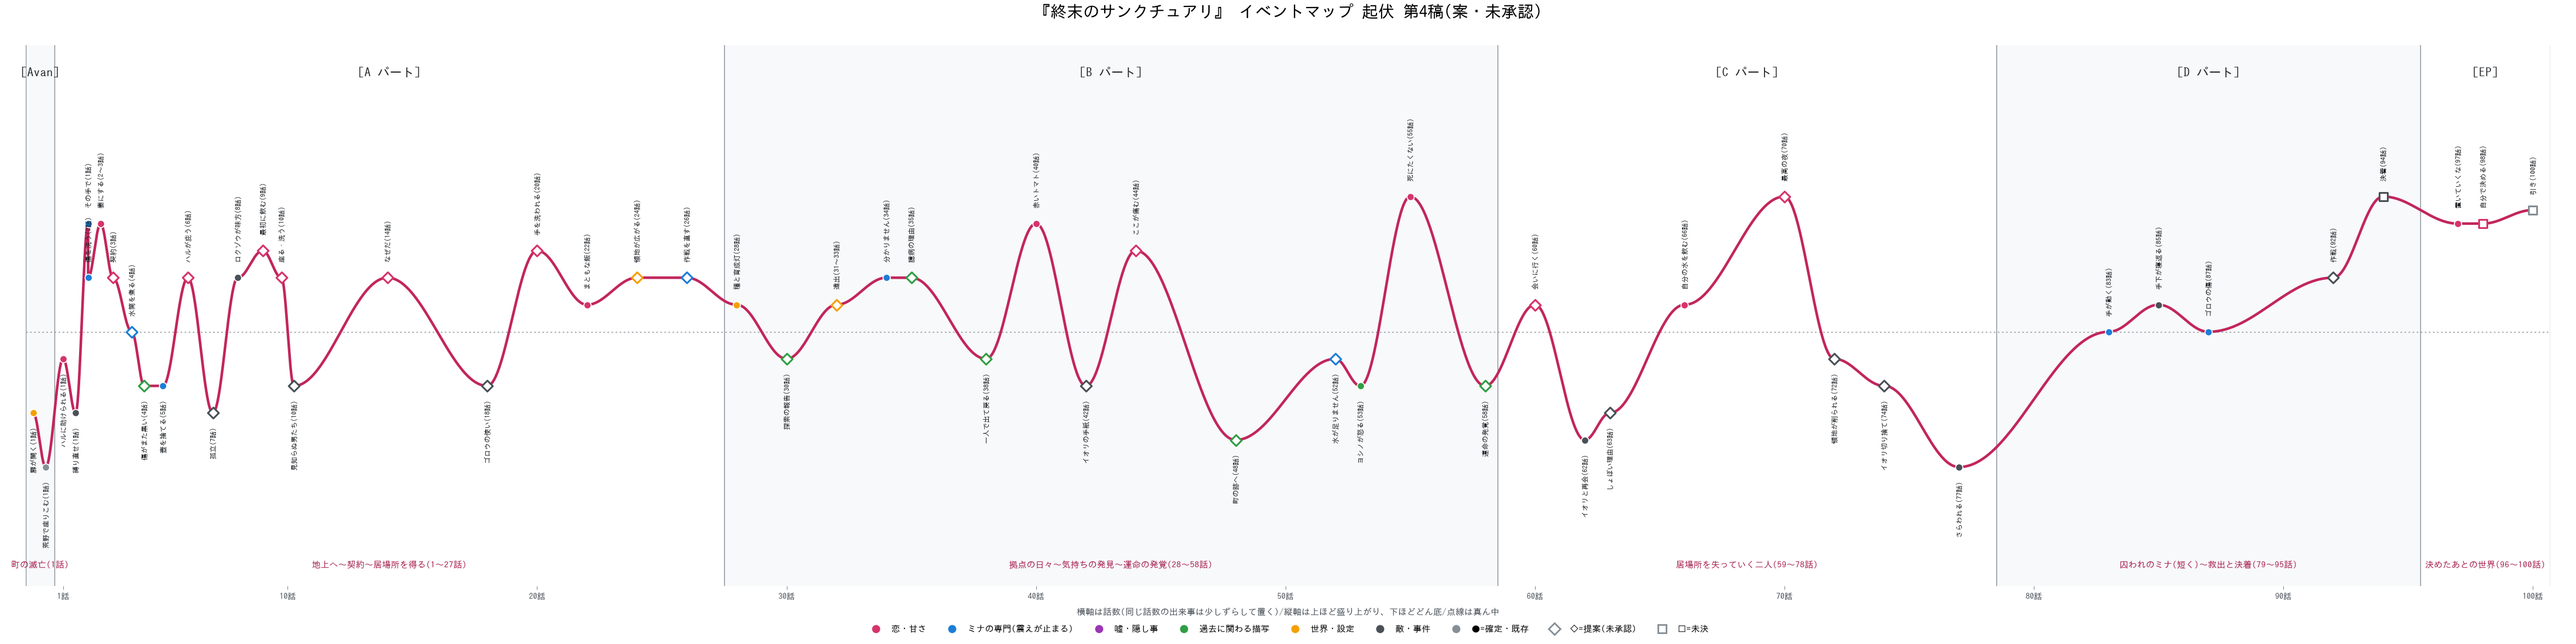
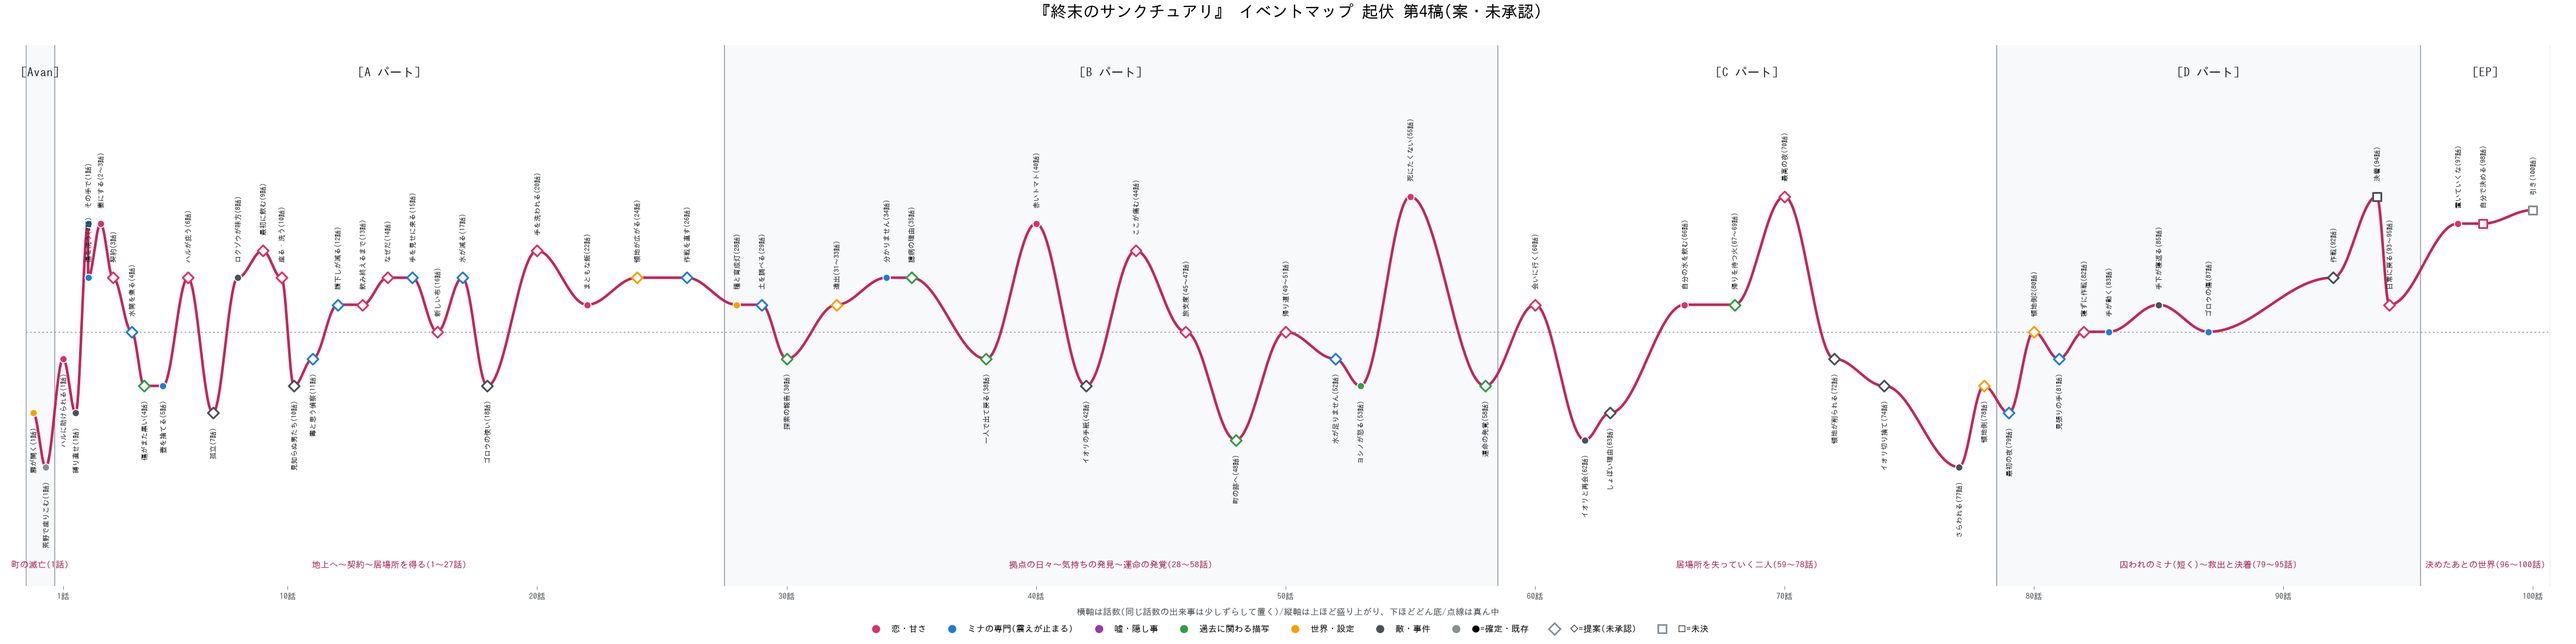
Add daily territory episodes to fill open slots; event map and graph updated
Claude-Session: https://claude.ai/code/session_018dkUDXa3XjFeNeXGfXNeGK

diff --git a/novels/shumatsu-no-sanctuary/案/案_日常回.md b/novels/shumatsu-no-sanctuary/案/案_日常回.md
@@ -1,0 +1,90 @@
+# 空き話数の案(日常の領地回)
+
+出来事だけ(台詞は書かない)。足した設定は0。使うのは、すでにある要素(水、傷、桶、鍋、火、種、トマト、手下、ロクゾウ、ヨシノ、集落、柵、小瓶)だけ。状態は★=私の提案(未承認)。
+
+## 『領地防衛』の分析から使う型
+
+1. 一話で一つ、目に見える成果が出る(水がきれいになる、手下の体調が良くなる)
+2. 人が集まる理由は、ミナの専門とやさしさ。能力を見せびらかさない
+3. 試練は外から来て、みんなで勝つ。ミナ一人で取らない
+
+## 空き話数の案
+
+| 話数 | 出来事 | 型 | 起伏 |
+| --- | --- | --- | --- |
+| 11話 | 10話の引き(柵の外の男たち)の正体が分かる。**下の3案から選ぶ** | 試練 | 4 |
+| 12話 | 水を飲むようになってから、手下の腹下しが減る。ロクゾウが確かめ、数が合う | 成果 | 6 |
+| 13話 | ヨシノが、ミナが自分の分の水を飲み終えるまで離れない。ミナは飲み終えて、少し笑う。ハルが遠くから見ている | 人柄・恋 | 6 |
+| 15話 | 手洗いの理由を、ミナが手下に見せる(泥の水と、洗ったあとの水を並べる)。手下が一人ずつ、自分の手を見せに来る | 成果・専門 | 7 |
+| 16話 | 寝床の布が、いつのまにか新しくなっている。ヨシノが誰の仕業かを探し、ロクゾウだと分かる | 人柄 | 5 |
+| 17話 | ロクゾウが、水場の水が日に日に減っていることに気づく。ミナがハルと水場を見に行き、石の詰まりを直す。水が増える | 成果・専門 | 7 |
+| 29話 | 種を土に植える前に、ミナが土と水を調べる。ハルが「なぜだ」と聞きながら付き合う | 専門・恋 | 6 |
+| 45〜47話 | 町の跡へ行く前後。**下の2案から選ぶ** | — | — |
+| 49〜51話 | 町の跡から帰ったあと。**下の2案から選ぶ** | — | — |
+| 67話 | イオリに会った帰り道、ミナは何も話せない。ヨシノが黙って隣を歩く。戻ると、手下たちが火を起こして待っている | 人柄 | 5 |
+| 68話 | 領地に入った集落の人に、ミナが水の見方を教える。集落の人が、ミナの手元をじっと見る | 人柄・専門 | 6 |
+| 69話 | トマトの実が増え、手下たちがそれぞれ、自分の分を持ち帰る。ミナは、数えずに見ている | 成果 | 7 |
+| 78〜82話 | さらわれたあと。**下の3案から選ぶ** | — | — |
+| 84・86・88話 | 83話(汚れた水を見て手が動く)、85話(空の水筒)、87話(ゴロウの傷)の間をつなぐ。**78〜82話の選び方で決まる** | — | — |
+| 89〜91話 | 嘘の流れを外したので空き。**78〜82話の選び方で決まる** | — | — |
+| 93・95話 | 94話の足が動かない、の前後。救出のあとの日常に戻る | 人柄・恋 | 6 |
+
+## 11話:柵の外の男たちの正体
+
+読者が予想する展開(10個)と、今の案(18話のゴロウの使いの前振り)との照合:
+
+| # | 予想 | 照合 |
+| --- | --- | --- |
+| 1 | 盗賊の偵察で、すぐ襲撃が来る | 一部 |
+| 2 | ゴロウの手下で、水場を狙っている | 当たる(18話で出る) |
+| 3 | ハルに恨みのある昔の敵 | 外れている |
+| 4 | イオリの手の者が、ミナを連れ戻しに来た | 外れている |
+| 5 | ハルが一人で全員を倒す | 外れている |
+| 6 | ミナが人質になり、ハルが助ける | 外れている |
+| 7 | 実はハルの昔の仲間 | 外れている |
+| 8 | 怪我人の一団で、ミナが手当てして仲間になる | 外れている |
+| 9 | 水を求めて来た旅人で、ミナが水を分ける | 外れている |
+| 10 | 手下の中に裏切り者がいて、手引きした | 外れている |
+
+- 案A:影は、水場の水を見に来た二人組。ハルは手を出さない。翌朝、ミナに「分けるか」を決めさせる。ミナは震えながら分けると決め、二人は水を持ち帰る。(9に近い。ただし分ける決断をミナにさせる)
+- 案B:影は、「あそこの水は毒だ」と思い込んで見に来た偵察。ミナが震えながら、目の前でその水を飲んでみせる。偵察は、倒れないミナを見て帰る。噂が広がり、18話の使いにつながる。(1に近いが、戦わずに退ける。ミナの勇気の場面が一つ決まる)
+- 案C:影は、怪我人を運ぶ一団。ミナが傷を洗う。一団は礼を言わずに去るが、数日後、別の怪我人が自分で歩いてくる。(8に近いが、仲間にはならない)
+
+## 45〜47話・49〜51話(町の跡の前後)
+
+- 案A:旅支度を日常回にする。手下が黙って持ち物を揃え、ミナは行くかどうか迷い、前夜はヨシノと過ごす。帰りは、ハルが黙って隣を歩き、帰った夜に手下が食事で迎える。
+- 案B:間を置かず、48話に入る。45〜47話と49〜51話は、通常の領地の日常回(成果が見える話)にする。
+
+## 78〜82話(さらわれたあと)
+
+- 案A:ミナ側だけで通す。運ばれ、着いた先で最初の夜を震えて過ごす。置かれた水が濁っていることに気づき、目が離れない。83話の「手が動く」を前に出し、日数を詰める。
+- 案B:領地側とミナ側を交互にする。領地側は、ミナの作った仕組み(水、煮沸、手洗い)が、ミナがいなくても回り続ける。手下が、ミナのやり方を守る。ハルは寝ずに探す作戦を立てる。
+- 案C:領地側は一話分だけ入れ、ほかはミナ側。
+
+## ルール5のテスト
+
+どの出来事も「ミナがトマトを育て、ハルがミナを溺愛する過程で必要か」に通るものだけにした。足した設定は0。
+
+## 決まったこと(2026-10-11、ユーザーの選択)
+
+- 11話:案B(毒だと思い込んだ偵察。ミナが目の前で水を飲んでみせる。ミナの勇気の場面が一つ決まる)
+- 45〜51話:案A(旅支度と帰りを日常回にする)
+  - 45話:手下が黙って、持ち物を揃える
+  - 46話:ミナは行くかどうか迷い、ハルは決めるのを待つ
+  - 47話:前夜、ミナはヨシノと過ごす
+  - 49話:帰り道、ハルが黙って隣を歩く
+  - 50話:帰った夜、手下たちが食事で迎える
+  - 51話:ミナは町の跡のことを話さず、いつもの仕事をする。ロクゾウが黙って桶を運ぶ
+- 78〜91話:案B(領地側とミナ側を交互にする)
+  - 78話(領地):さらわれた翌朝、ハルが手下を集める。ミナの作った仕組み(水を煮る火、手洗い)は止まらず回っている
+  - 79話(ミナ):着いた先の最初の夜、震えて眠れない。置かれた水が濁っているのに気づく
+  - 80話(領地):手下が、ミナのやり方どおりに手を洗い、水を煮る。ロクゾウが確かめる
+  - 81話(ミナ):見張りの手が荒れているのに気づく
+  - 82話(領地):ハルが寝ずに作戦を立てる。ヨシノがハルに水を飲ませる
+  - 84話(ミナ):見張りの手を洗う
+  - 86話(領地):作戦の準備。手下たちが、ミナに教わった手当てを使う
+  - 88話(ミナ):ゴロウの手下がミナの側に集まる様子
+  - 89話(領地):殺さない作戦の準備
+  - 90話(ミナ):ゴロウの手下が、空の水筒を差し出し続ける
+  - 91話(領地):出発の前夜、ハルが水を一口飲んで休む
+- 嘘の流れ(89・90話)は外したまま。53話は「自分を責める」だけ

diff --git a/novels/shumatsu-no-sanctuary/案/案_イベントマップ.md b/novels/shumatsu-no-sanctuary/案/案_イベントマップ.md
@@ -5,8 +5,9 @@
 - 起伏: 0が一番どん底、10が一番盛り上がる(5が真ん中)。山場・カタルシス・甘さは高く、絶望・喪失は低くつける(状況の良し悪しではなく、盛り上がりで)。グラフは `案_イベントマップ_起伏.png`
 - 状態: ◎確定(CLAUDE.md)/○企画書・話数配分にあったもの/★私の提案(未承認)/？未決
 - タグ: 恋・専門(震えが止まる)・嘘・過去・世界・敵
-- 「空き」の話数は、日常回・つなぎ回。中身は未決(足していない)
+- 「空き」の話数は、日常回・つなぎ回。2026-10-11に、日常回の案を入れた(`案_日常回.md`、★)。残る空きは、まだ中身が未決
 - 手下が「姐さん」と呼ぶのは34話から(予想を外す#3を採用)
+- 2026-10-11: 空き話数の日常回を入れた(11〜17・29・45〜51・67〜69・78〜95話の一部。選択はユーザー)
 - 2026-10-11: 『領地防衛』の声の分析(企画書ドキュメントのタブ)で「嫌な思いをしない」が最多だったため、5話・7話の敵意を弱めた(嫌がらせを外し、遠巻きにするだけ)
 - 2026-10-09: 領地経営を軸にする方針(CLAUDE.md)を反映(第4稿)。さらわれる流れを短く軽くし(80・89・90話を削除)、31〜33話に「イオリの手がかりを追う遠出」を追加。襲撃は今ある5回(18・26・52・72・77話)のまま
 - 2026-10-02: 点検の結果と「予想を外す案」の採用を反映(【変】)。決定の一覧は `04_進捗メモ.md`
@@ -51,7 +52,19 @@
 
 ・夜、柵の外に見知らぬ男たちの影(10話の引き)(10話)【新】 [起伏3/敵/★]
 
+・柵の外の男たちは、「水は毒だ」と思い込んだ偵察。ミナが震えながら、目の前でその水を飲んでみせる。偵察は倒れないミナを見て帰る(11話)【新】 [起伏4/専門・敵/★]
+
+・水を飲むようになってから、手下の腹下しが減る。ロクゾウが確かめる(12話)【新】 [起伏6/専門/★]
+
+・ヨシノが、ミナが自分の分の水を飲み終えるまで離れない。ハルが遠くから見ている(13話)【新】 [起伏6/恋/★]
+
 ・何にでも「なぜだ」と聞くハル(コメディ)(14話) [起伏7/恋/★]
+
+・手洗いの理由を、ミナが手下に見せる。手下が一人ずつ、自分の手を見せに来る(15話)【新】 [起伏7/専門/★]
+
+・寝床の布が新しくなっている。ヨシノが探して、ロクゾウの仕業と分かる(16話)【新】 [起伏5/恋/★]
+
+・水場の水が減っているとロクゾウが気づく。ミナがハルと見に行き、石の詰まりを直して水が増える(17話)【新】 [起伏7/専門/★]
 
 ・ゴロウの使いが来る(ヒールの最初の仕掛け)(18話) [起伏3/敵/★]
 
@@ -63,8 +76,6 @@
 
 ・ハルの作戦を、ミナが直す(使いの一団を迎え撃つ)。迎え撃ちのあと、契約の条件の抜け道をハルが使っていたと分かる(26話) [起伏7/専門・敵/★]
 
-(空き: 11〜13話、15〜17話)
-
 ## Bパート(28〜58話) 拠点の日々〜気持ちの発見〜運命の発覚
 
 ・種と育成灯が、略奪団の戦利品の中から見つかる(28話)【変】 [起伏6/世界/○]
@@ -72,6 +83,8 @@
 ・イオリの探索の報告(30話)【新】 [起伏4/過去/★]
 
 ・イオリの手がかりを追って、近くの集落へ遠出。ハルと手下が同行し、水場を直すと、集落が領地に入る(31〜33話)【新】 [起伏6/世界/★]
+
+・種を土に植える前に、ミナが土と水を調べる。ハルが「なぜだ」と聞きながら付き合う(29話)【新】 [起伏6/専門・恋/★]
 
 ・燃料が尽き、ミナが分からないと言う。手下が火を起こし、「姐さん」と呼びはじめる(34話)【変】 [起伏7/専門/○]
 
@@ -87,6 +100,8 @@
 
 ・町の跡へ、見に行く(取りに行くものはなし。生存者はいない)(48話)【変】 [起伏1/過去・世界/★]
 
+・旅支度と前夜(45〜47話)、帰り道と帰った夜の食事(49〜51話)を日常回にする。48話の前後に温かい回を置く(45〜47・49〜51話)【新】 [起伏5/恋/★]
+
 ・他勢力の襲撃。誰も死なない。ハルが左肩を切られる(52話) [起伏4/専門/★]
 
 ・ミナが自分を責めて眠らず、ヨシノが怒る(53話)【変】 [起伏3/過去/○]
@@ -94,8 +109,6 @@
 ・恋の中間点:ハルが傷を見せに来る。初めて名前を呼ぶ(55話) [起伏10/恋/○]
 
 ・運命の発覚:町を襲ったのは、ハルから缶詰を奪った男ゴロウだった(58話) [起伏3/過去・敵/★]
-
-(空き: 29話、45〜47話、49〜51話)
 
 ## Cパート(59〜78話) 居場所を失っていく二人
 
@@ -109,13 +122,13 @@
 
 ・最高の夜:ハルが、ミナの手を洗う(20話の答え)。そのあと、二人で黙って座る(70話) [起伏10/恋/★]
 
+・イオリに会った帰り道、戻ると手下たちが火を起こして待っている(67話)/集落の人にミナが水の見方を教える(68話)/トマトの実が増え、手下が持ち帰る(69話)(67〜69話)【新】 [起伏6/人柄/★]
+
 ・ゴロウが、領地の集落を取り上げる(72話)【変】 [起伏4/敵/★]
 
 ・ゴロウがイオリを切り捨て、ミナを狙う(74話)【変】 [起伏3/敵/★]
 
 ・拠点が襲われ、ミナがさらわれる(77話) [起伏0/敵/○]
-
-(空き: 67〜69話)
 
 ## Dパート(79〜95話) 囚われのミナ(短く)〜救出と決着
 
@@ -127,7 +140,19 @@
 
 ・ハルが作戦を立てて乗りこむ。殺さない作戦(92話) [起伏7/敵/★]
 
-(空き: 78〜82話、84話、86話、88〜91話、93話、95話。さらわれた先の日々。中身は未決)
+・領地側:さらわれた翌朝、ハルが手下を集める。ミナの作った仕組みは止まらず回っている(78話)【新】 [起伏3/世界/★]
+
+・ミナ側:着いた先の最初の夜、震えて眠れない。置かれた水が濁っているのに気づく(79話)【新】 [起伏2/専門/★]
+
+・領地側:手下がミナのやり方どおりに手を洗い、水を煮る。ロクゾウが確かめる(80話)【新】 [起伏5/世界/★]
+
+・ミナ側:見張りの手が荒れているのに気づく(81話)【新】 [起伏4/専門/★]
+
+・領地側:ハルが寝ずに作戦を立てる。ヨシノがハルに水を飲ませる(82話)【新】 [起伏5/恋/★]
+
+(84話ミナ:見張りの手を洗う/86話領地:手当てを使う準備/88話ミナ:ゴロウの手下が側に集まる/89話領地:殺さない作戦の準備/90話ミナ:空の水筒を差し出され続ける/91話領地:出発の前夜、ハルが水を一口飲んで休む。詳細は `案_日常回.md`)
+
+・救出のあとの日常に戻る(93話・95話)【新】 [起伏6/恋/★]
 
 ・決着(ゴロウとイオリの最後は未決)。救出後、ミナの足が動かない(94話) [起伏10/敵/？]
 

diff --git a/novels/shumatsu-no-sanctuary/04_進捗メモ.md b/novels/shumatsu-no-sanctuary/04_進捗メモ.md
@@ -112,6 +112,13 @@
 - 決めてもらったこと: 5話・7話の敵意を弱める(手下は嫌がらせをせず、遠巻きにするだけ。5話は武器を握らない。7話の夜通し鍋は残し、軽い調子で書く)。あらすじ(5〜7話)とイベントマップに反映済み
 - 未確認: 8話のロクゾウの「姐さん」と、イベントマップ注記「手下が姐さんと呼ぶのは34話から」(ロクゾウだけが先に呼ぶ、という読みで両立するが、書く前に確認)
 
+## 日常回の案(2026-10-11、決定済み)
+
+- 企画書ドキュメントのタブ「空き話数の案(日常回)」と `案/案_日常回.md`。イベントマップ(第4稿)と起伏グラフに反映済み
+- 決めてもらったこと: 11話=毒だと思い込んだ偵察(ミナが目の前で水を飲んでみせる。勇気の場面が一つ決まる)/45〜51話=旅支度と帰りを日常回にする/78〜91話=領地側とミナ側を交互にする
+- 12・13・15・16・17・29・67〜69・93・95話は、私の提案(★)。足した設定は0
+- **未決**: 領地側の話の視点(第1話以外の視点は未決)。書く前に確認する
+
 ## まだ残っている穴
 
 - 94〜100話に谷がない(起伏10、9、9、7)
